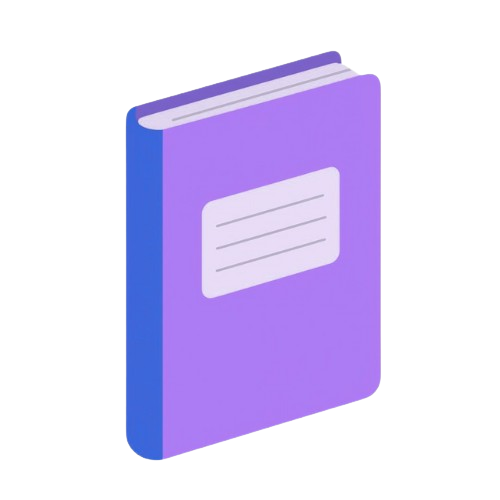
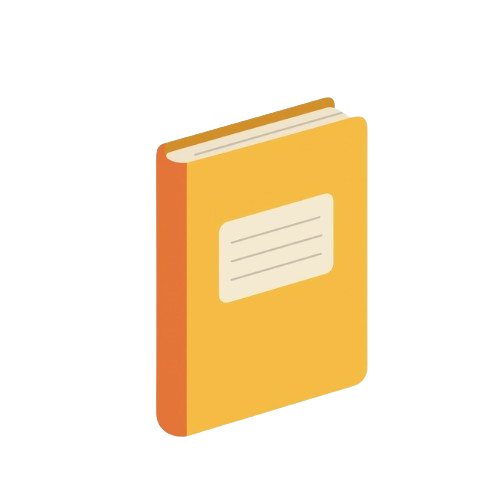
Mengubah tampilan warna

diff --git a/styles.css b/styles.css
@@ -1,8 +1,8 @@
 /* Import Font */
 :root {
-    --primary-bg: #2c2a4a;
-    --secondary-bg: navy;
-    --header-bg: #1e1d32;
+    --primary-bg: #022a00;
+    --secondary-bg: rgb(37, 85, 37);
+    --header-bg: #0d0d0f;
     --text-primary: #f5f5f5;
     --text-accent: #ffd700;
     --accent-green: #28a745;
@@ -134,6 +134,14 @@ div>label[for="bookFormIsComplete"] {
     width: 1.2em;
     height: 1.2em;
     accent-color: var(--text-accent);
+}
+
+#bookFormIsComplete {
+    cursor: pointer;
+}
+
+.checkbox {
+    align-items: center;
 }
 
 /* Buttons */

diff --git a/index.html b/index.html
@@ -33,7 +33,7 @@
             <label for="bookFormYear">Tahun : </label>
             <input id="bookFormYear" type="number" required data-testid="bookFormYearInput" />
           </div>
-          <div>
+          <div class="checkbox">
             <label for="bookFormIsComplete"><b>Selesai dibaca</b></label>
             <input
               id="bookFormIsComplete"